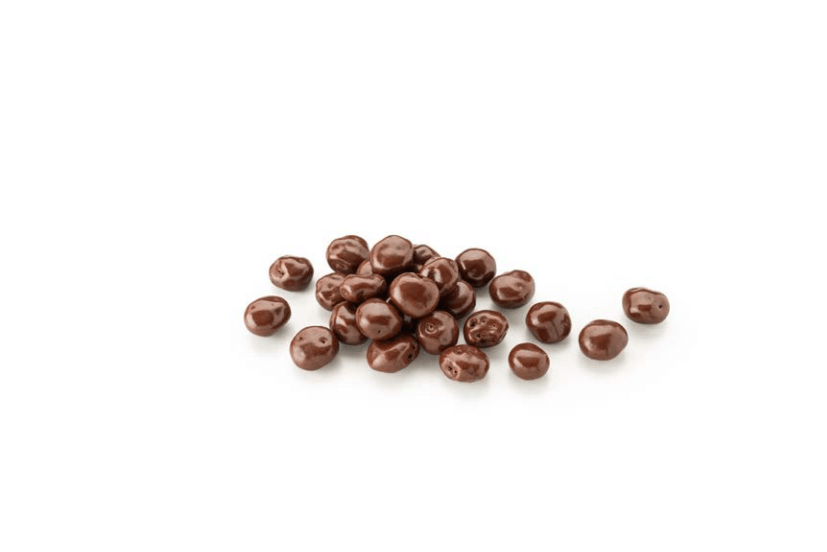
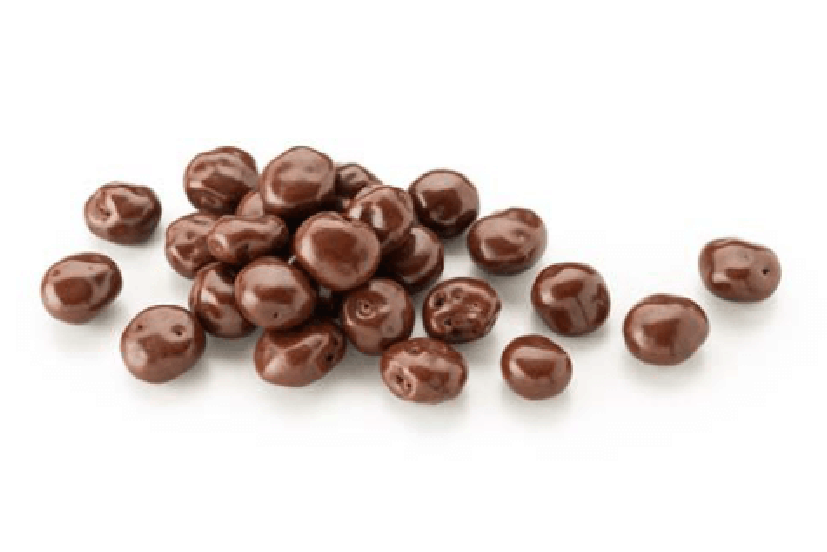
Style(Ingredients): Resize images

Changed region(s): [[0.0302, 0.2464, 0.9674, 0.7699]]

diff --git a/src/components/product-services/ingredients/maracas/maracas.js b/src/components/product-services/ingredients/maracas/maracas.js
@@ -76,8 +76,8 @@ class IngredientDragees extends React.Component {
           <h1>WITH 100% CACAO FINO DE AROMA</h1>
         </div>
         <div className="dragees-component--content">
-          <p>In the same way as that magical seductive instrument that characterises the happy upbeat feel of the tropics with its sweet and varied rhythm, CasaLuker Maracas presents a new range of chocolate-covered dragees. Filled with roasted coffee, roasted cocoa and sweet tropical fruits, these delightful dragees are covered in our finest Fino de Aroma chocolate.</p>
-          <p>CasaLuker Maracas, Tropical Dragees are ideal for decorating desserts and cakes, to include in preparations, as toppings for ice-cream or simply to give that special touch to your recipes. They are also a good accompaniment for coffee and other hot drinks; they can be mixed in with cereals and dried fruit to prepare delicious, healthy snacks.</p>
+          <p>In the same way as that magical seductive instrument that characterises the happy upbeat feel of the tropics with its sweet and varied rhythm, Luker Maracas presents a new range of chocolate-covered dragees. Filled with roasted coffee, roasted cocoa and sweet tropical fruits, these delightful dragees are covered in our finest Fino de Aroma chocolate.</p>
+          <p>Luker Maracas, Tropical Dragees are ideal for decorating desserts and cakes, to include in preparations, as toppings for ice-cream or simply to give that special touch to your recipes. They are also a good accompaniment for coffee and other hot drinks; they can be mixed in with cereals and dried fruit to prepare delicious, healthy snacks.</p>
         </div>
         <button className={`dragees-component--products-btn-next`} disabled={items.filter(item => item.selected).length <= 0} onClick={() => this.handleShowFormContact(true)}> Next</button>
         <div className="dragees-component--products">

diff --git a/src/components/layout/contact/contact.js b/src/components/layout/contact/contact.js
@@ -175,7 +175,7 @@ class Contact extends React.Component {
               })(
                 <Select
                   showSearch
-                  placeholder="Your Country"
+                  placeholder="Your country"
                   optionFilterProp="children"
                   filterOption={(input, option) =>
                     option.props.children.toLowerCase().indexOf(input.toLowerCase()) >= 0

diff --git a/src/components/layout/contact/contact.scss b/src/components/layout/contact/contact.scss
@@ -69,6 +69,10 @@ $Extra-large: 1200px;
       border-color: #846961;
     }
 
+    .ant-select-selection--single .ant-select-selection__rendered {
+      width: 100%;
+    }
+
     .ant-select-selection--single {
       border-radius: 0;
       height: 50px;

diff --git a/src/components/layout/work-with-us/work-with-us.scss b/src/components/layout/work-with-us/work-with-us.scss
@@ -82,6 +82,10 @@ $Extra-large: 1200px;
       font-size: larger;
     }
 
+    .ant-select-selection--single .ant-select-selection__rendered {
+      width: 100%;
+    }
+
     .ant-select-selection--single {
       border-radius: 0;
       height: 50px;
